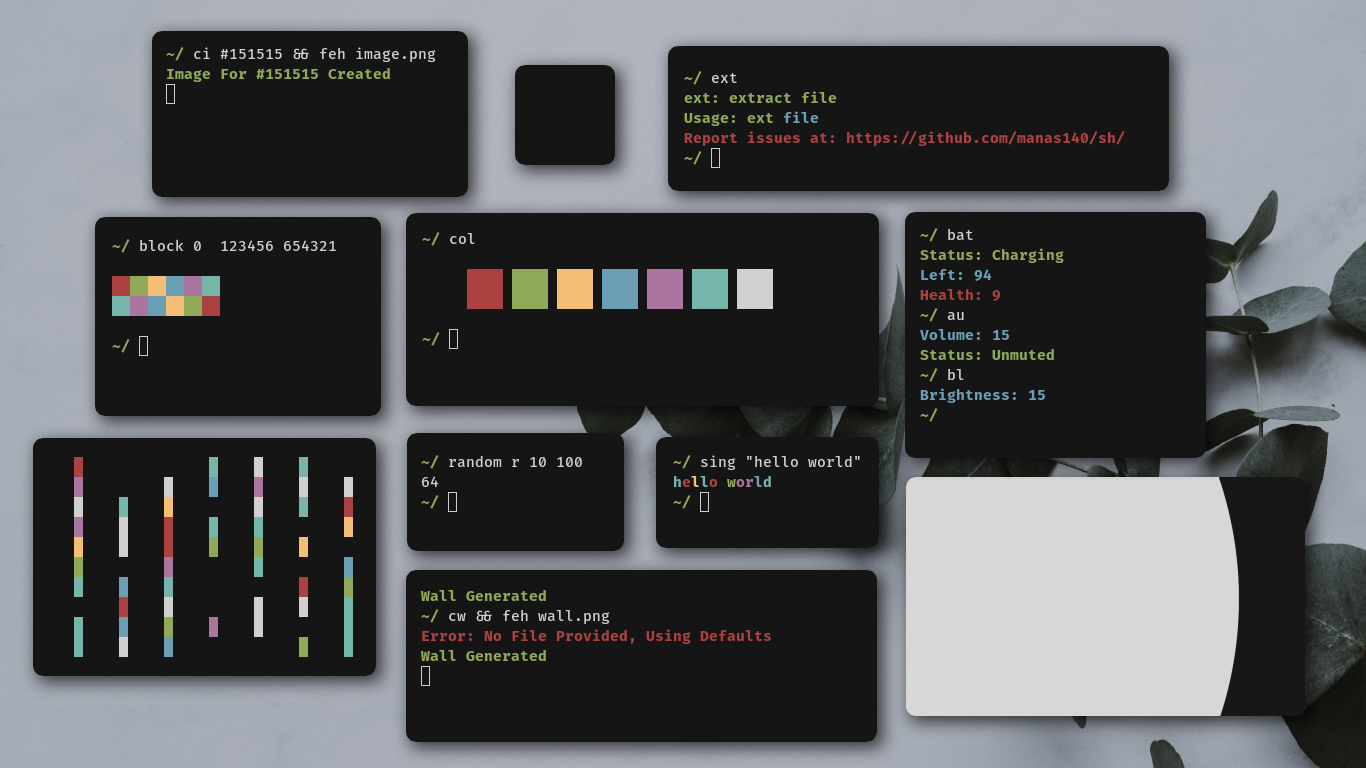
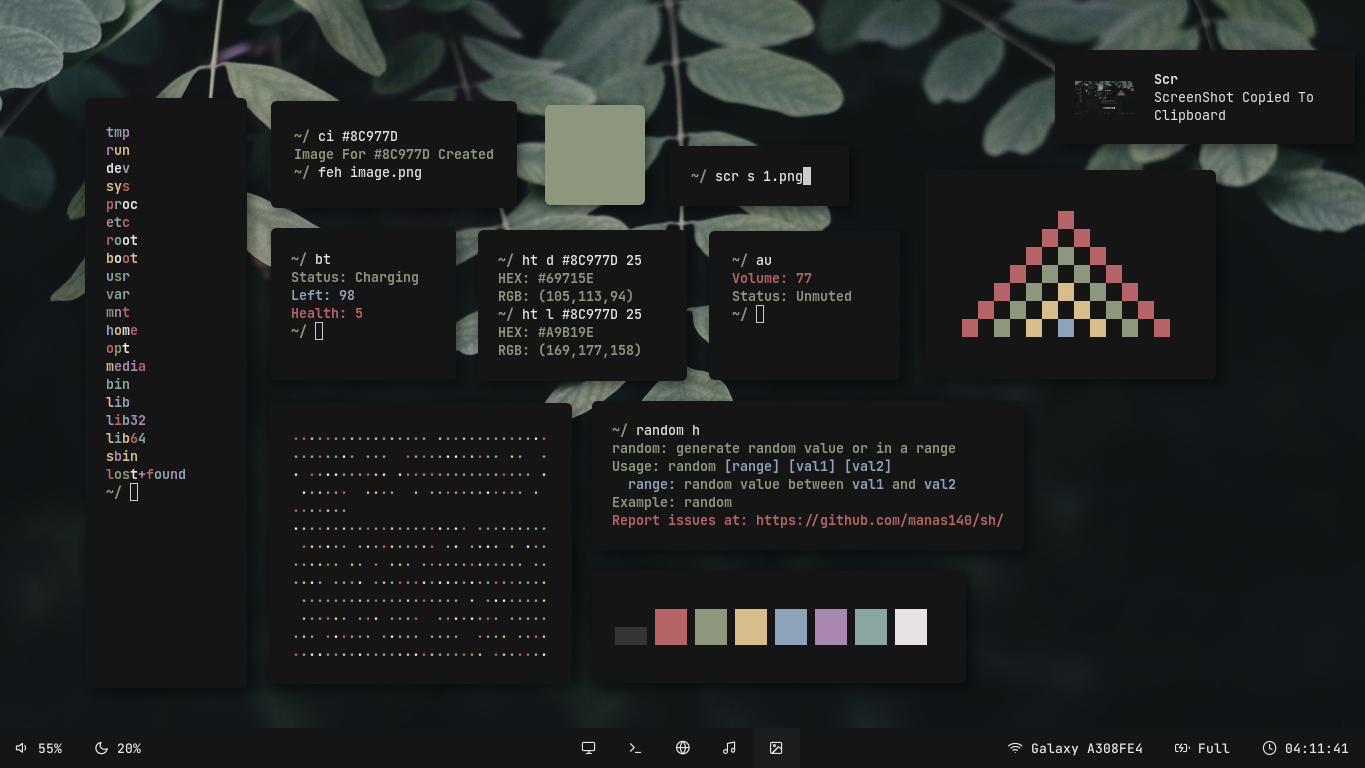
minor changes

diff --git a/README.md b/README.md
@@ -11,20 +11,18 @@ Not A Complete Preview
 # Programs Included
 ```
   au              audio.
-  bt              battery.
   bl              backlight.
   block           print colored blocks.
-  calc            simple calculator.
+  bt              battery.
   ci              color image.
   cl              show color scheme.
-  cw              create wallpaper.
   ext             extract file.
-  nl              night light.
+  ht              hex tool.
+  nt              network.
   rain            colorful rain of text.
   random          generate random value or in a range.
   scr             screen shot/record.
   sing            print colored text.
-  tp              prints top commands
 ```
 
 # Install
@@ -43,10 +41,4 @@ This is suggested as there might be cases where some scripts are deleted
 # Uninstall
 ```
   sudo ./install.sh u
-```
-
-# Todo
-```
-  Change name's so it won't mess with other programs.
-  Make a contribute section.
 ```
